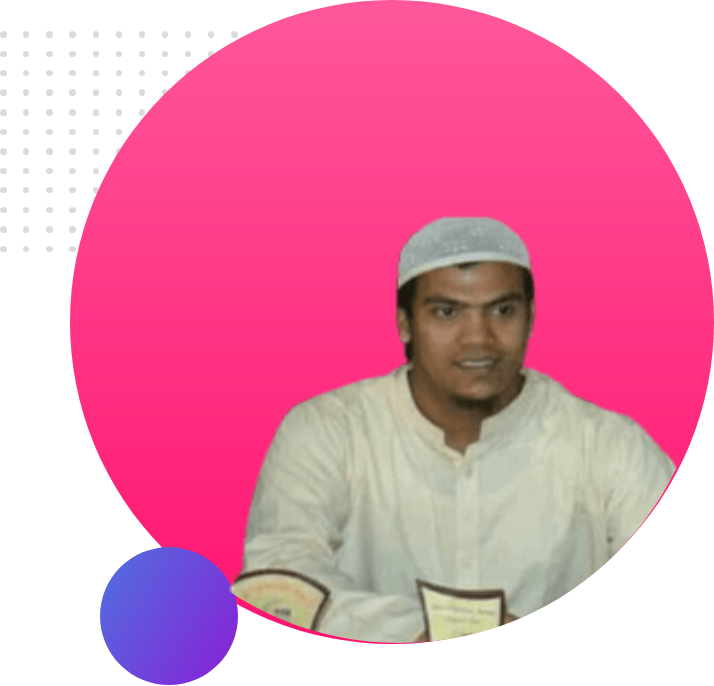
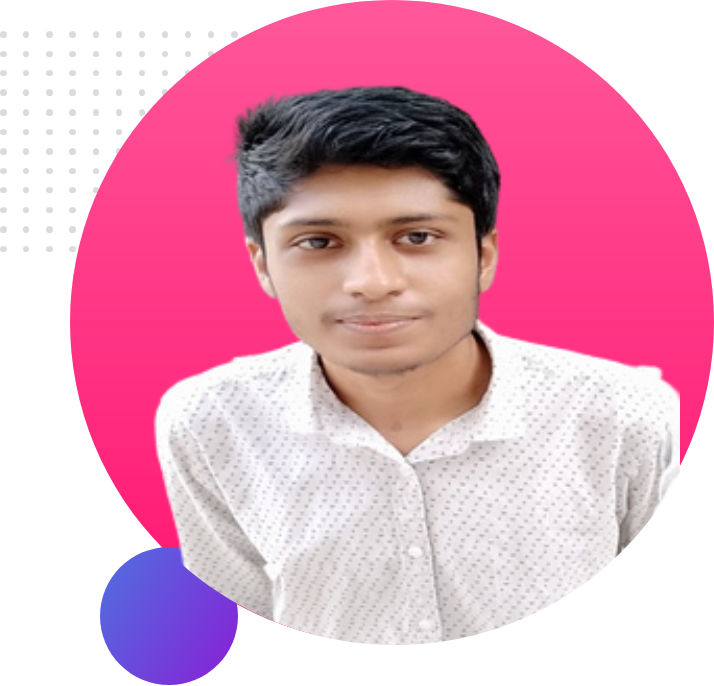
header part send

diff --git a/index.html b/index.html
@@ -5,8 +5,23 @@
     <meta http-equiv="X-UA-Compatible" content="IE=edge">
     <meta name="viewport" content="width=device-width, initial-scale=1.0">
     <title>Professional  Portfolio</title>
+    <link rel="stylesheet" href="style.css">
+    <link rel="preconnect" href="https://fonts.googleapis.com">
+    <link rel="preconnect" href="https://fonts.gstatic.com" crossorigin>
+    <link href="https://fonts.googleapis.com/css2?family=Poppins&display=swap" rel="stylesheet">
 </head>
 <body>
-    
+    <section id="header">
+        <div class="header-part">
+            <h1>Welcome to</h1>
+            <h1><span class="text-color">Omar Faruk</span> World!</h1>
+            <h2>Full Stack Web Development with JavaScript</h2>
+            <p>Lorem ipsum dolor sit amet consectetur, adipisicing elit. Sequi minus, ea impedit nulla nam dolores? Delectus explicabo error sunt ipsa obcaecati voluptates dicta aspernatur, doloremque architecto exercitationem soluta repellat quis tempora qui itaque quisquam molestiae placeat ad dolor esse omnis? Hic exercitationem itaque doloribus animi voluptatum unde distinctio sapiente illo aperiam amet dolorum eaque ea debitis eligendi, suscipit sunt! Officia velit facere deleniti tempora consectetur. Veritatis debitis explicabo odio delectus.</p>
+            <a class="link-color" href="https://facebook.com">Hire Me</a>
+        </div>
+        <div class="header-part">
+            <img src="images/header-bg.png" alt="header photo">
+        </div>
+    </section>
 </body>
 </html>

diff --git a/style.css b/style.css
@@ -1,0 +1,28 @@
+body {
+    font-family: 'Poppins', sans-serif;
+    margin: 0;
+}
+#header {
+    display: flex;
+    background-image: url(images/top-banner.png);
+    background-repeat: no-repeat;
+}
+.header-part {
+    width: 50%;
+    padding-left: 5%;
+}
+.text-color {
+    color: orange;
+}
+.link-color {
+    padding: 10px 40px;
+    text-decoration: none;
+    background-image: linear-gradient(red,yellow);
+    border-radius: 10px;
+}
+h1 {
+    font-size: 50px;
+}
+.header-part img {
+    width: 100%;
+}
